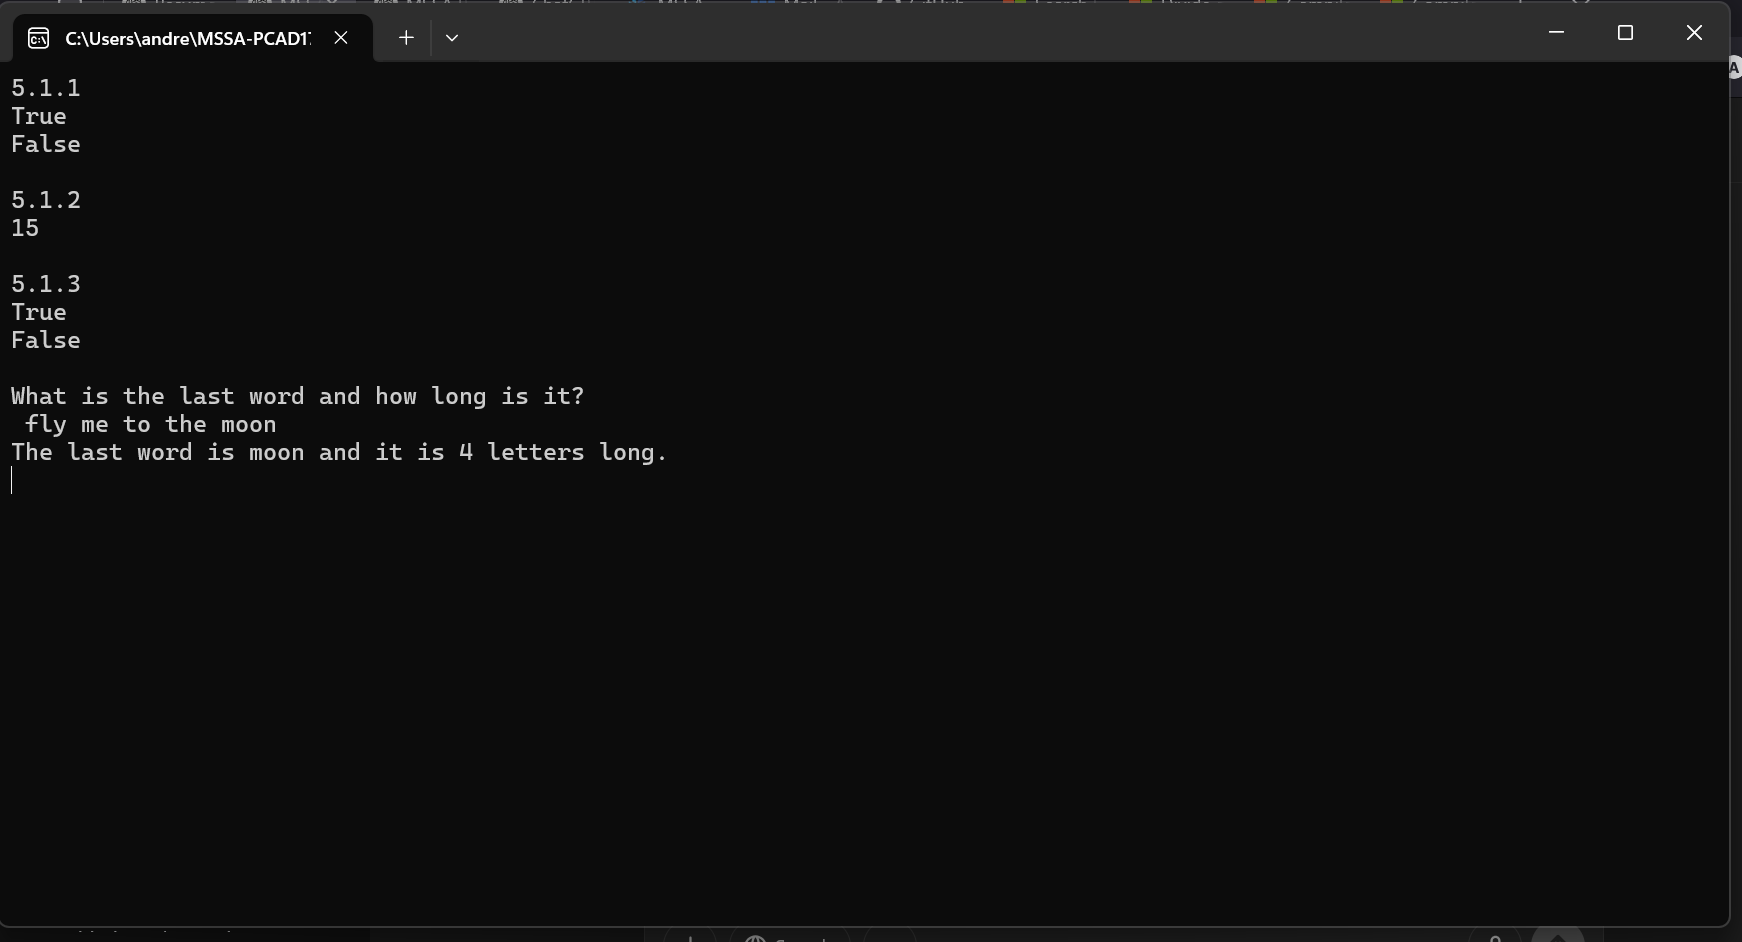
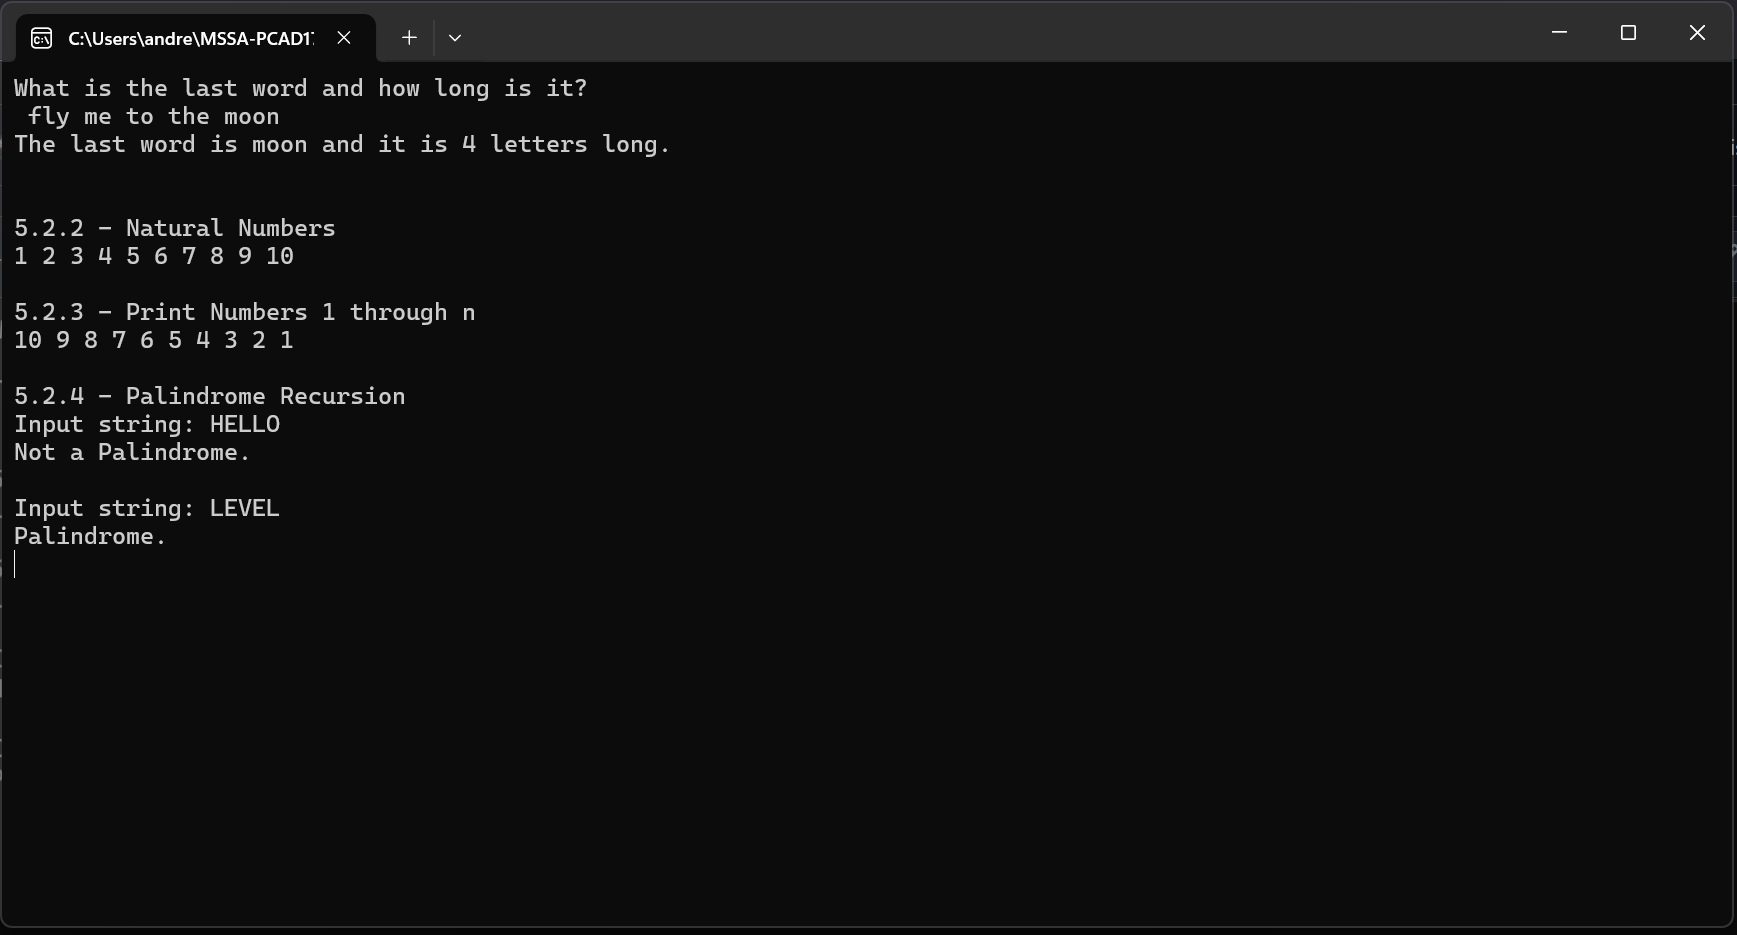
Update 5.2

diff --git a/Week 5/5.2/Program.cs b/Week 5/5.2/Program.cs
@@ -13,10 +13,10 @@
         PrintNumbers(10);
         Console.WriteLine("\n");
 
+        Console.WriteLine("5.2.4 - Palindrome Recursion");
         //string input = "RADAR";
         //int start = 0;
         //int end = input.Length - 1;
-        //Console.WriteLine("5.2.4 - Palindrome Recursion");
         //Console.WriteLine($"Input string: {input}");
         //PalindromeRecursion(input, start, end);
         string input = "HELLO";
